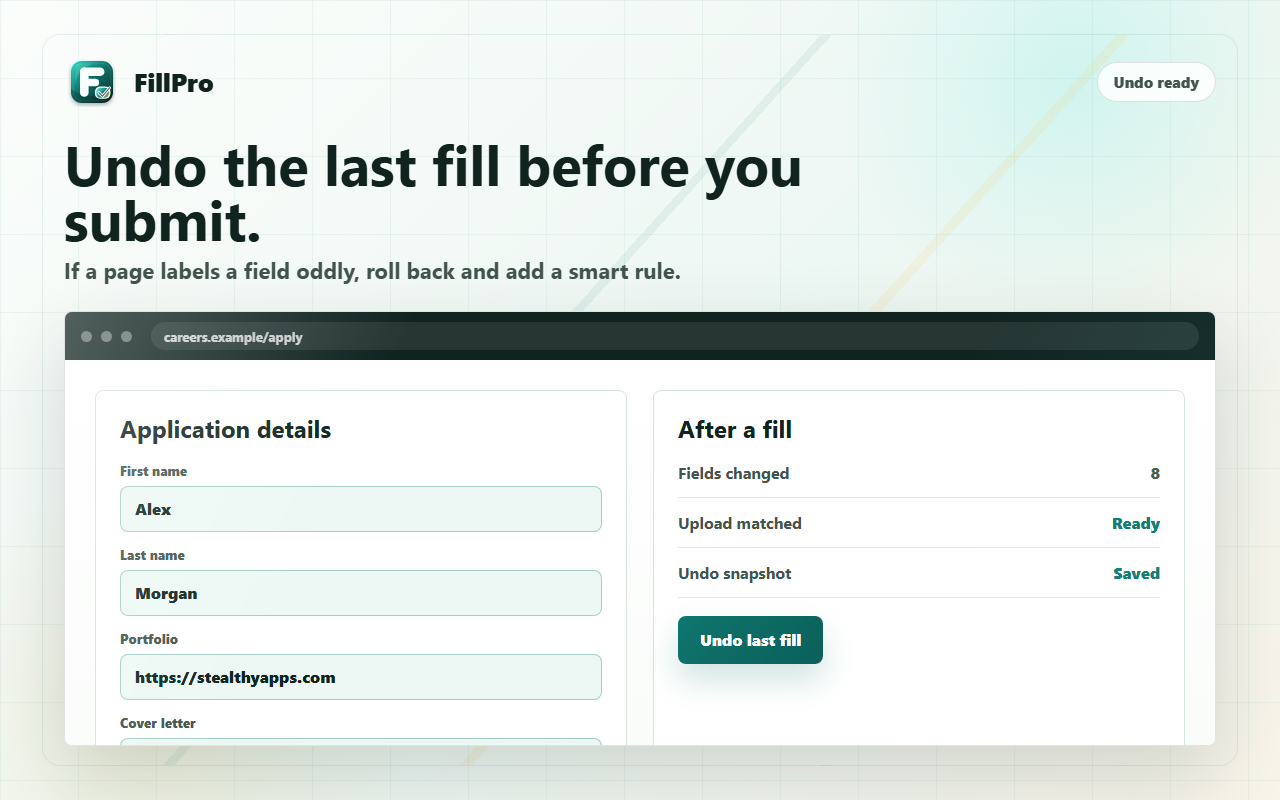
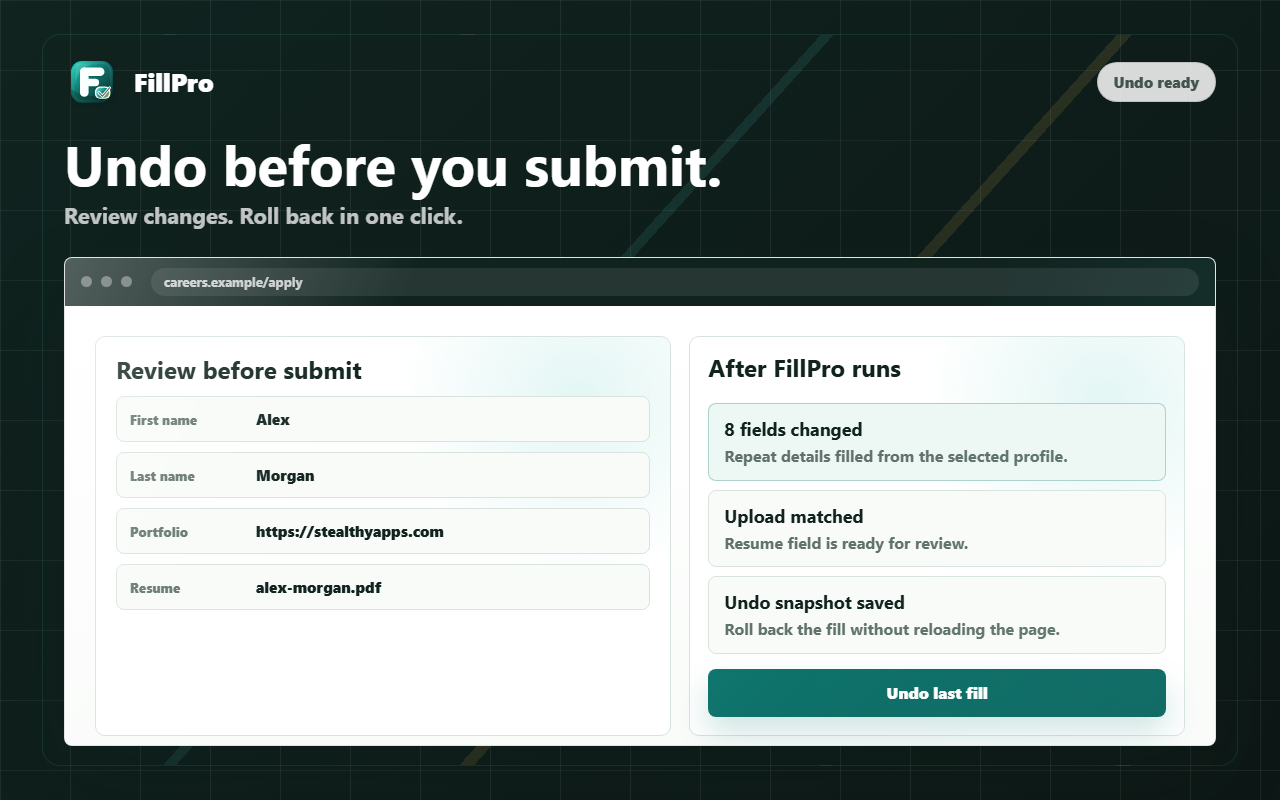
Differentiate FillPro store screenshots

diff --git a/scripts/render-fillpro-assets.js b/scripts/render-fillpro-assets.js
@@ -313,6 +313,111 @@ const css = `
     color: #5eeadd;
     white-space: nowrap;
   }
+  .review-proof {
+    display: grid;
+    grid-template-columns: 1fr 0.86fr;
+    gap: 18px;
+    min-height: 332px;
+  }
+  .review-form {
+    position: relative;
+    overflow: hidden;
+    padding: 20px;
+    border: 1px solid rgba(255, 255, 255, 0.18);
+    border-radius: 10px;
+    background:
+      radial-gradient(circle at 82% 14%, rgba(94, 234, 221, 0.14), transparent 190px),
+      rgba(255, 255, 255, 0.08);
+  }
+  .review-form h2,
+  .review-stack h2 {
+    margin: 0 0 14px;
+    color: #fff;
+    font-size: 24px;
+    line-height: 1.08;
+  }
+  .review-row {
+    display: grid;
+    grid-template-columns: 112px 1fr;
+    align-items: center;
+    gap: 14px;
+    min-height: 46px;
+    margin-bottom: 10px;
+    padding: 0 13px;
+    border: 1px solid rgba(255, 255, 255, 0.14);
+    border-radius: 8px;
+    background: rgba(255, 255, 255, 0.08);
+  }
+  .review-row span {
+    color: rgba(255, 255, 255, 0.7);
+    font-size: 13px;
+    font-weight: 820;
+  }
+  .review-row strong {
+    color: #fff;
+    font-size: 15px;
+    font-weight: 900;
+  }
+  .review-stack {
+    display: grid;
+    align-content: stretch;
+    gap: 9px;
+    padding: 18px;
+    border: 1px solid rgba(255, 255, 255, 0.18);
+    border-radius: 10px;
+    background: rgba(255, 255, 255, 0.07);
+  }
+  .review-card {
+    min-height: 62px;
+    display: grid;
+    align-content: center;
+    gap: 5px;
+    padding: 13px 15px;
+    border: 1px solid rgba(255, 255, 255, 0.14);
+    border-radius: 8px;
+    background: rgba(255, 255, 255, 0.08);
+  }
+  .review-card strong {
+    color: #fff;
+    font-size: 18px;
+  }
+  .review-card span {
+    color: rgba(255, 255, 255, 0.72);
+    font-weight: 740;
+    line-height: 1.28;
+  }
+  .review-card.accent {
+    border-color: rgba(94, 234, 221, 0.34);
+    background: rgba(94, 234, 221, 0.11);
+  }
+  .review-proof-light .review-form,
+  .review-proof-light .review-stack {
+    border-color: #d8e3de;
+    background:
+      radial-gradient(circle at 84% 16%, rgba(20, 184, 166, 0.12), transparent 180px),
+      #ffffff;
+  }
+  .review-proof-light .review-form h2,
+  .review-proof-light .review-stack h2 {
+    color: #10231f;
+  }
+  .review-proof-light .review-row,
+  .review-proof-light .review-card {
+    border-color: #d8e3de;
+    background: #f8fbf8;
+  }
+  .review-proof-light .review-row span,
+  .review-proof-light .review-card span {
+    color: #60726b;
+  }
+  .review-proof-light .review-row strong,
+  .review-proof-light .review-card strong {
+    color: #10231f;
+  }
+  .review-proof-light .review-card.accent {
+    border-color: rgba(15, 118, 110, 0.3);
+    background: #edf8f4;
+  }
   .dark {
     background:
       linear-gradient(90deg, rgba(255,255,255,0.07) 1px, transparent 1px) 0 0 / 70px 70px,
@@ -696,16 +801,16 @@ async function renderStaticAssets(browser) {
             ${field('Resume upload', 'alex-morgan.pdf')}
           </div>
           <div class="panel">
-            <h2>Fields FillPro checks</h2>
+            <h2>Tricky fields</h2>
             <div class="chips">
               <span class="chip">Dropdowns</span>
               <span class="chip">Checkboxes</span>
-              <span class="chip">Radios</span>
+              <span class="chip">Choice buttons</span>
               <span class="chip">Text areas</span>
               <span class="chip">File uploads</span>
               <span class="chip">Late fields</span>
               <span class="chip">Nearby labels</span>
-              <span class="chip">Same-page sections</span>
+              <span class="chip">Grouped sections</span>
             </div>
           </div>
         </div>`)}
@@ -742,24 +847,24 @@ async function renderStaticAssets(browser) {
     path.join(marketplaceDir, 'fillpro-screenshot-undo-1280x800.png'),
     1280,
     800,
-    `<main class="stage">
+    `<main class="stage dark">
       <div class="topline"><div class="brand"><img src="${logoDataUrl}" alt="">FillPro</div><span class="pill">Undo ready</span></div>
-      <div><h1>Undo the last fill before you submit.</h1><p class="sub">If a page labels a field oddly, roll back and add a smart rule.</p></div>
+      <div><h1>Undo before you submit.</h1><p class="sub">Review changes. Roll back in one click.</p></div>
       ${chromeFrame('careers.example/apply', `
-        <div class="grid2">
-          <div class="form">
-            <h2>Application details</h2>
-            ${field('First name', 'Alex')}
-            ${field('Last name', 'Morgan')}
-            ${field('Portfolio', 'https://stealthyapps.com')}
-            ${field('Cover letter', 'cover-letter.pdf')}
+        <div class="review-proof review-proof-light">
+          <div class="review-form">
+            <h2>Review before submit</h2>
+            <div class="review-row"><span>First name</span><strong>Alex</strong></div>
+            <div class="review-row"><span>Last name</span><strong>Morgan</strong></div>
+            <div class="review-row"><span>Portfolio</span><strong>https://stealthyapps.com</strong></div>
+            <div class="review-row"><span>Resume</span><strong>alex-morgan.pdf</strong></div>
           </div>
-          <div class="panel">
-            <h2>After a fill</h2>
-            <div class="cardline"><span>Fields changed</span><strong>8</strong></div>
-            <div class="cardline"><span>Upload matched</span><span class="check">Ready</span></div>
-            <div class="cardline"><span>Undo snapshot</span><span class="check">Saved</span></div>
-            <div class="button" style="margin-top:18px;">Undo last fill</div>
+          <div class="review-stack">
+            <h2>After FillPro runs</h2>
+            <div class="review-card accent"><strong>8 fields changed</strong><span>Repeat details filled from the selected profile.</span></div>
+            <div class="review-card"><strong>Upload matched</strong><span>Resume field is ready for review.</span></div>
+            <div class="review-card"><strong>Undo snapshot saved</strong><span>Roll back the fill without reloading the page.</span></div>
+            <div class="button" style="margin-top:6px; width:100%;">Undo last fill</div>
           </div>
         </div>`)}
     </main>`,

diff --git a/scripts/audit-fillpro-marketing-assets.js b/scripts/audit-fillpro-marketing-assets.js
@@ -323,9 +323,13 @@ function checkStillRenderer() {
     'Pick a profile. Check every field before you submit.',
     'Keep each repeat job separate.',
     'Fills what autofill misses.',
-    'Undo the last fill before you submit.',
+    'Undo before you submit.',
+    'Review changes. Roll back in one click.',
     'Fill repeat forms without handing over your data.',
     'No cloud profile account.',
+    'Tricky fields',
+    'Choice buttons',
+    'Grouped sections',
     'brandPromo',
     'promo-row',
     'alex-morgan.pdf',
@@ -357,6 +361,9 @@ function checkStillRenderer() {
   }
   if (/Google Forms-style|ARIA radios|ARIA checkboxes|React inputs|Vue fields|Angular forms|Shadow DOM/i.test(source)) {
     fail(`${relativePath}: store screenshots should use buyer-facing field language, not framework jargon or third-party product phrasing`);
+  }
+  if (/Same-page sections|<span class="chip">Radios<\/span>|If a page labels a field oddly/i.test(source)) {
+    fail(`${relativePath}: store screenshots should avoid technical or cramped fallback wording`);
   }
   if (/promo-line/i.test(source)) {
     fail(`${relativePath}: promo tiles should use concrete product rows, not generic bars`);

diff --git a/release/FILLPRO_BRUTAL_ELITE_QA_SCORECARD_2026-07-03.md b/release/FILLPRO_BRUTAL_ELITE_QA_SCORECARD_2026-07-03.md
@@ -72,11 +72,11 @@ These are the categories that can be proven locally before store traffic exists.
 | Website conversion clarity | 96/100 | Clear hero, pricing, privacy proof, and low-friction CTAs. Mobile now reaches the product demo sooner, the page leads with the exact pain, uses Start free as the first action, and keeps the FAQ heading plain. Remaining gap is real conversion data and tested alternate hero angles. |
 | Extension popup UI craft | 97/100 | The first-run popup is focused, the preview appears sooner, dark-mode secondary actions no longer read as disabled, and light/dark/editor captures are repeatable. Still constrained by the browser-popup surface and not yet validated by real user retention. |
 | Logo/icon system | 94/100 | The master mark is cleaner, more dimensional, and better matched to the marketing set. 16/32 use brighter F-only optical variants while 48+ keep the check badge. SVG parity, source safety, dimensions, edge padding, coverage, luma, and color spread are now audited. Remaining gap is live store/search CTR testing against alternate icon variants. |
-| Store screenshots | 90/100 | Releaseable and clearer after this pass: promo tiles show concrete product rows, the first three screenshots carry the product job, messy-form support, and profile organization, and screenshot 2 now uses buyer-facing field proof instead of framework jargon or third-party phrasing. Remaining gap: the set still shares a staged visual language and has no store A/B evidence. |
+| Store screenshots | 92/100 | Releaseable and clearer after this pass: promo tiles show concrete product rows, the first screenshots carry the product job, messy-form support, and profile organization, screenshot 2 uses buyer-facing field proof, and screenshot 5 now has a darker review/undo composition instead of repeating the first light browser-frame layout. Remaining gap: no store A/B evidence yet. |
 | Store demo video | 93/100 | The 22-second muted MP4 reaches visible fill value near the two-second mark, uses a 2.4s action poster frame, uses calmer sign-in boundary copy, covers uploads and messy forms, splits privacy from review/undo control, and ends on a free-starter CTA. Remaining gap: it is still a generated product demo, not a live CTR-tested trailer with measured first-three-second retention. |
 | ASO/store metadata | 94/100 | Natural keyword coverage, 22 locales, narrow permission claims, accurate privacy language, and cleaner crawler text. Remaining gap is post-approval keyword/rank feedback. |
 | Competitive positioning | 92/100 | Stronger privacy/trust discipline than FormFiller and Fill Hero pages reviewed, with less overclaim risk. Remaining gap is store proof: installs, reviews, and retention. |
-| Market-facing creative certainty | 92/100 | Professional and releaseable, with clearer first-three screenshot story, faster video value proof, product-specific hero depth, cleaner video trust/control beats, less stiff language, regenerated assets, review sheets, and locked visual baselines. Still not elite-proof without live CTR, retention, paid conversion, and target-user creative critique. |
+| Market-facing creative certainty | 93/100 | Professional and releaseable, with clearer first-three screenshot story, more distinct screenshot sequencing, faster video value proof, product-specific hero depth, cleaner video trust/control beats, less stiff language, regenerated assets, review sheets, and locked visual baselines. Still not elite-proof without live CTR, retention, paid conversion, and target-user creative critique. |
 
 ## Changes Made In This Pass
 
@@ -120,7 +120,7 @@ These are the categories that can be proven locally before store traffic exists.
 - Reworked the first screenshot and video opening again to a shorter, more scannable promise: “Save once. Fill the next long form.”
 - Replaced technical modern-form copy with more user-facing language and added audit guards against the old stiff first-frame phrasing.
 - Replaced the generic “real workflows” profile screenshot with “Keep each repeat job separate.”
-- Replaced “Fast fill. Clean fallback.” with a concrete undo promise: “Undo the last fill before you submit.”
+- Replaced “Fast fill. Clean fallback.” with a concrete undo promise, now tightened to “Undo before you submit.”
 - Replaced the older messy-form caption with the sharper “Fills what autofill misses” story across stills and video.
 - Rebuilt the marquee tile into a real benefit frame: “Fill repeat forms without handing over your data,” with short proof chips.
 - Recut the video middle so it reaches “Fields fill while you watch” earlier and no longer repeats the opening promise for half the runtime.
@@ -133,8 +133,10 @@ These are the categories that can be proven locally before store traffic exists.
 - Tightened the extension empty-state popup spacing so the product preview appears sooner after opening.
 - Reworked dark-mode profile secondary buttons so Edit, Duplicate, Default, and Delete read as active controls instead of disabled grey blocks.
 - Sharpened the generated 16px and 32px toolbar monogram icons with brighter color and larger F geometry, then regenerated the icon review sheet and visual baseline.
-- Reworked the modern-forms marketplace screenshot from framework/third-party language into plain field proof: dropdowns, checkboxes, radios, text areas, file uploads, late fields, nearby labels, and same-page sections.
+- Reworked the modern-forms marketplace screenshot from framework/third-party language into plain field proof: dropdowns, checkboxes, choice buttons, text areas, file uploads, late fields, nearby labels, and grouped sections.
 - Added a renderer guard so third-party form-builder phrasing, framework names, and ARIA jargon cannot return to the store screenshots unnoticed.
+- Reworked the undo/review screenshot into a darker, more distinct control frame and tightened its headline/subcopy so the full Undo action stays visible.
+- Replaced technical chips such as "Radios" and "Same-page sections" with buyer-facing field language.
 - Reworded public product-page schema, local-autofill copy, and crawler summaries away from framework jargon and toward buyer-facing field support language: “Fills what autofill misses.”
 - Recut the store demo timing so sampled frames now show a distinct story arc: hook, fill, review, applications, autofill gaps, privacy, review/undo control, and free starter.
 - Reworked the 16px and 32px toolbar icon exports again with brighter color and simpler F geometry for clearer tiny-size scanning.

diff --git a/release/FILLPRO_BRUTAL_QUALITY_AUDIT_2026-07-03.md b/release/FILLPRO_BRUTAL_QUALITY_AUDIT_2026-07-03.md
@@ -26,7 +26,7 @@ These are not the local gate scores. These are cold-buyer, top-tier-market score
 | Website full-page craft | 88/100 | Responsive and consistent, but the lower sections repeat card grids and the heavy headline style becomes monotonous. |
 | Three.js hero scene | 87/100 | It renders, moves, supports reduced motion, and now shows profile-to-field transfer pulses along the fill paths. It is more product-specific, but still not a jaw-dropping 3D product centerpiece. |
 | Public copy and anti-AI feel | 91/100 | Much tighter after removing framework jargon from public copy. Some sections are still very orderly and can feel engineered instead of lived-in. |
-| Store screenshots | 88/100 | Clear, consistent, and technically clean. They still share the same staged browser-frame language and do not yet feel like a high-budget creative campaign. |
+| Store screenshots | 91/100 | Clear, consistent, and technically clean. Screenshot 5 now has a distinct dark review/undo composition instead of repeating the first light browser-frame layout. The set is stronger, but still not a live-tested high-budget creative campaign. |
 | Store demo video | 91/100 | Recut into a cleaner story arc: hook, fill, review, upload, autofill gaps, privacy, user control, free starter. The repeated trust scene was removed and stiff "core filling" wording is blocked. Still a generated product demo, not a live-captured/pro-edited trailer with tested retention. |
 | Logo/icon system | 90/100 | The large F/check mark is clear and consistent. The 16px/32px optical exports are improved, but icon CTR is not proven and alternate concepts have not been tested. |
 | Store metadata / ASO | 92/100 | Natural keywords, 22 locales, accurate privacy claims, and v1.0.0 packaging are aligned. Ranking impact is unproven until indexed. |
@@ -45,6 +45,8 @@ These are not the local gate scores. These are cold-buyer, top-tier-market score
 - Added visible product-specific profile-to-field pulses to the WebGL hero so the motion explains FillPro instead of acting as generic decoration.
 - Split the store-video trust segment into two clearer beats: no cloud profile account, then review/undo before submit.
 - Added guards against the old "core filling" phrase and the awkward "form leaves the page" line.
+- Rebuilt the undo/review marketplace screenshot into a darker, distinct control frame with the full Undo action visible.
+- Replaced technical modern-form chips like "Radios" and "Same-page sections" with buyer-facing field language.
 
 ## What Blocks A Real 100
 
